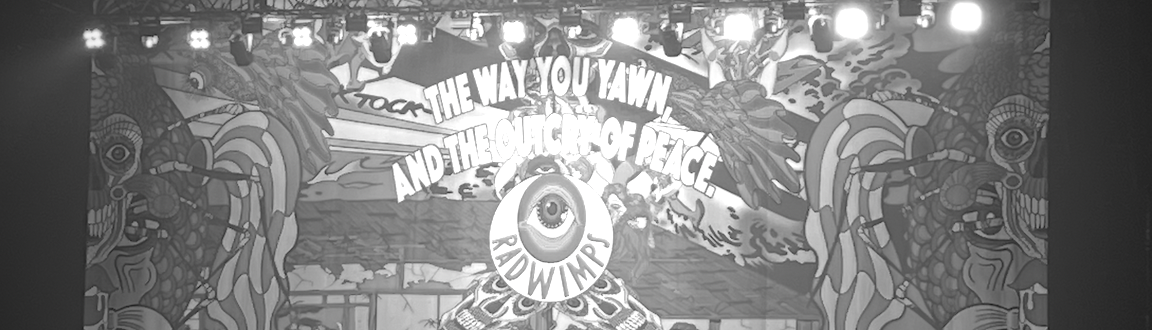
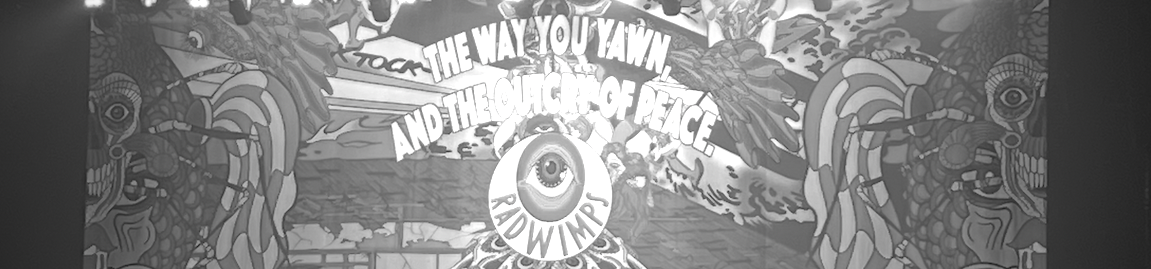
fix 少しだけ　レスポンシブ対応

diff --git a/frontend/src/styles/Components.css b/frontend/src/styles/Components.css
@@ -1,24 +1,64 @@
 .header-main {
-    margin-top:10px;
-    height: 120px;
+    height: 200px;
+    width: 100%;
     display: flex;
-    justify-content: center; 
+    justify-content: center;
     align-items: center;
+    overflow: hidden; /* 親要素のオーバーフローを隠す */
 }
-  
+
 .header-main img {
     max-height: 100%;
-    width: auto;
-    object-fit: contain;
+    width: auto; /* 親要素に対して幅は自動で調整 */
+    height: auto; /* 画像比率を保つ */
+    object-fit: contain; /* 画像が親要素に収まる */
 }
 
 .profile-header-main{
-    margin-top: 10px;
-    height: 200px;
+    height: 300px;
     display:flex;
     align-items: center;
     padding: 0px 40px;
+    background-color: red;
 }
+
+@media(max-width:768px) {
+    .stack-container {
+        grid-template-columns: repeat(auto-fill, minmax(200px, 1fr)); /* 小さいスクリーンでは幅を少し小さくする */
+    }
+
+    .header-main {
+        height: 200px;
+    }
+    .profile-header-main{
+        height: 180px;
+    }
+}
+
+@media(max-width:540px) {
+    .header-main {
+        height: 160px;
+    }
+    .profile-header-main{
+        height: 160px;
+    }
+    
+}
+
+@media(max-width: 400px) {
+    .stack-container {
+        grid-template-columns: repeat(auto-fill, minmax(150px, 1fr)); /* さらに小さいスクリーンでは幅をさらに小さくする */
+    }
+    .header-main {
+        height: 140px;
+    }
+
+    .profile-header-main{
+        height: 140px;
+    }
+  
+}
+
 
 .profile-img{
     height: 80%;
@@ -243,15 +283,4 @@ margin: 10px;
     list-style:none;
 }
 
-@media (max-width: 768px) {
-.stack-container {
-    grid-template-columns: repeat(auto-fill, minmax(200px, 1fr)); /* 小さいスクリーンでは幅を少し小さくする */
-}
-}
-
-@media (max-width: 480px) {
-.stack-container {
-    grid-template-columns: repeat(auto-fill, minmax(150px, 1fr)); /* さらに小さいスクリーンでは幅をさらに小さくする */
-}
-}
   

diff --git a/frontend/public/index.html b/frontend/public/index.html
@@ -14,7 +14,6 @@
     <title>Introduction</title>
   </head>
   <body>
-    <noscript>You need to enable JavaScript to run this app.</noscript>
     <div id="root"></div>
   </body>
 </html>
